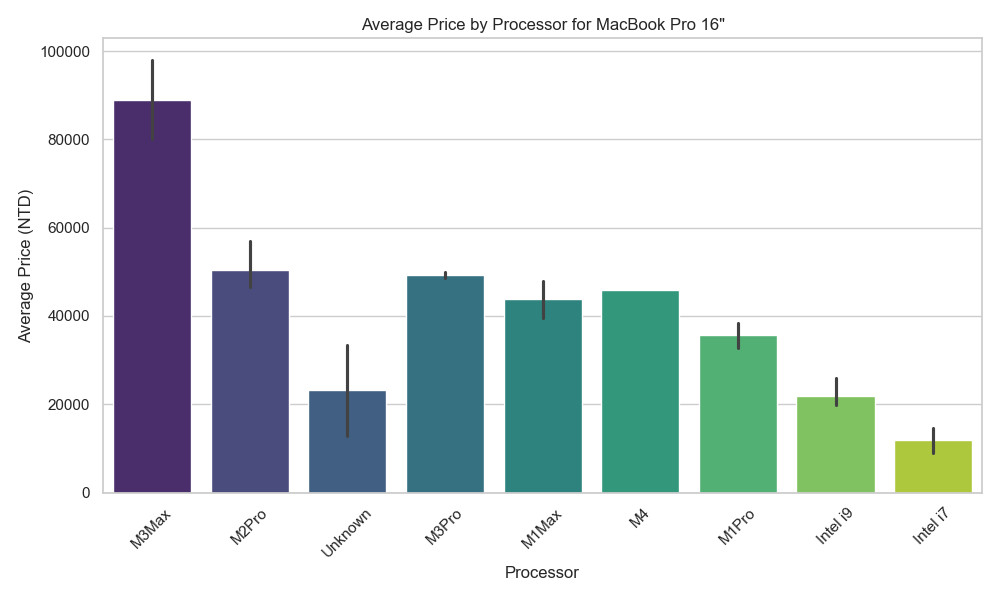
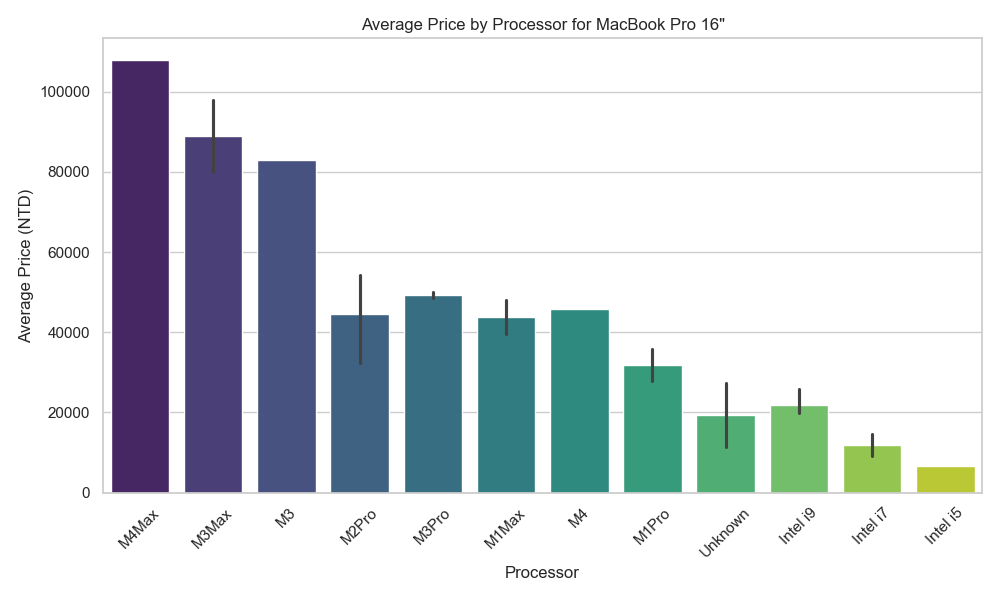
Add support for i3 and i5. Infer M1/M2 Pro for 14”/16” MacBook Pros. Fix Chinese screen size detection.

diff --git a/app.py b/app.py
@@ -47,42 +47,51 @@ def extract_macbook_model(title):
     is_pro = "pro" in title
 
     # Match M1/M2/M3/M4 variants including pro/max
-    processor_match = re.search(r"m(1|2|3|4)\s*(pro|max)?", title)
+    processor_match = re.search(r"m(1|2|3|4)(\s*pro|\s*max)?", title)
     processor = None
     if processor_match:
         base = f"M{processor_match.group(1)}"
         variant = processor_match.group(2)
         if variant:
-            processor = f"{base}{variant.capitalize()}"
+            processor = f"{base}{variant.replace(' ', '').capitalize()}"
         else:
             processor = base
     else:
-        # Fallback to Intel i7/i9
-        intel_match = re.search(r"\bi(7|9)\b", title)
+        # Fallback to Intel i3/i5/i7/i9
+        intel_match = re.search(r"\bi(3|5|7|9)\b", title)
         if intel_match:
             processor = f"Intel i{intel_match.group(1)}"
 
     # Screen size
-    size_match = re.search(r"(13|14|15|16)(\s*\"|\s*inch)?", title)
+    size_match = re.search(r"(13|14|15|16)(\s*\"|\s*inch|\s*吋)?", title)
     screen = f"{size_match.group(1)}" if size_match else "Unknown"
+
+    # Improve detection of M1 Pro/Max based on screen size
+    if processor == "M1" and is_pro and screen in ["14", "16"]:
+        processor = "M1Pro"
+    if processor == "M2" and is_pro and screen in ["14", "16"]:
+        processor = "M2Pro"
 
     # Validate combinations
     if is_air:
         if screen not in ["13", "15"]:
             return "MacBook Unknown", processor or "Unknown", screen
-        if processor in ["M1", "M2", "M3"]:
-            return "MacBook Air", processor, screen
-        return "MacBook Air", "Unknown", screen
+        return "MacBook Air", processor or "Unknown", screen
 
     if is_pro:
         if screen == "13" and processor in ["M1", "M2"]:
             return "MacBook Pro", processor, screen
         elif screen in ["14", "16"]:
-            valid_pros = ["M1Pro", "M1Max", "M2Pro", "M2Max", "M3Pro", "M3Max", "M4", "Intel i7", "Intel i9"]
+            valid_pros = [
+                "M1Pro", "M1Max",
+                "M2Pro", "M2Max",
+                "M3", "M3Pro", "M3Max",
+                "M4", "M4Pro", "M4Max",
+                "Intel i3", "Intel i5", "Intel i7", "Intel i9"
+            ]
             if processor in valid_pros:
                 return "MacBook Pro", processor, screen
-            else:
-                return "MacBook Pro", "Unknown", screen
+            return "MacBook Pro", "Unknown", screen
 
     return "MacBook Unknown", processor or "Unknown", screen
 
